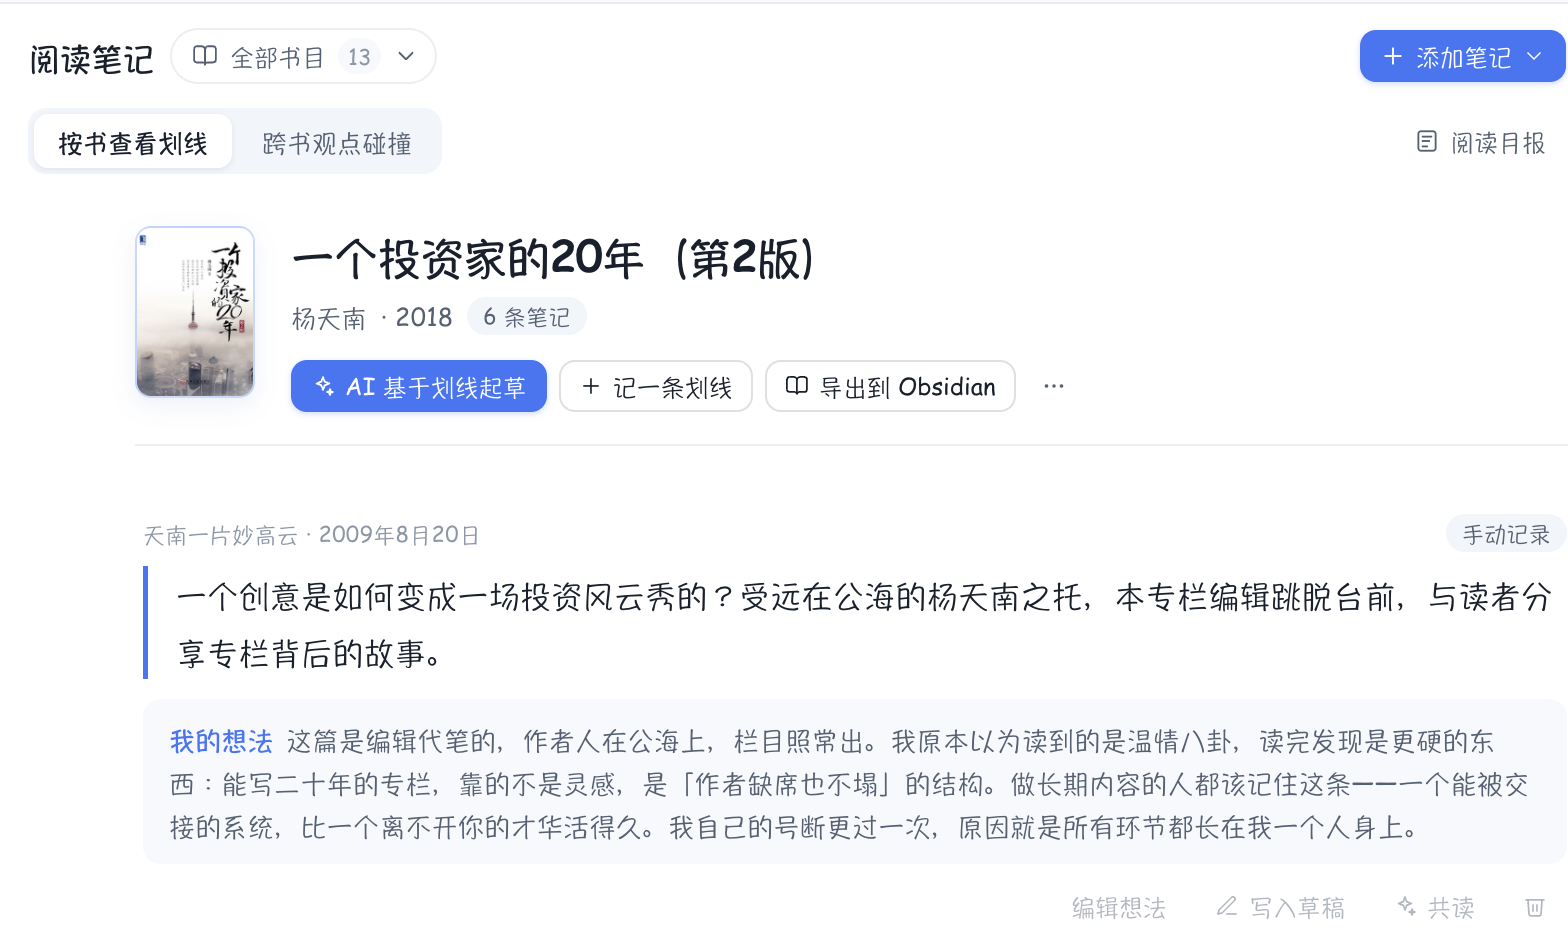
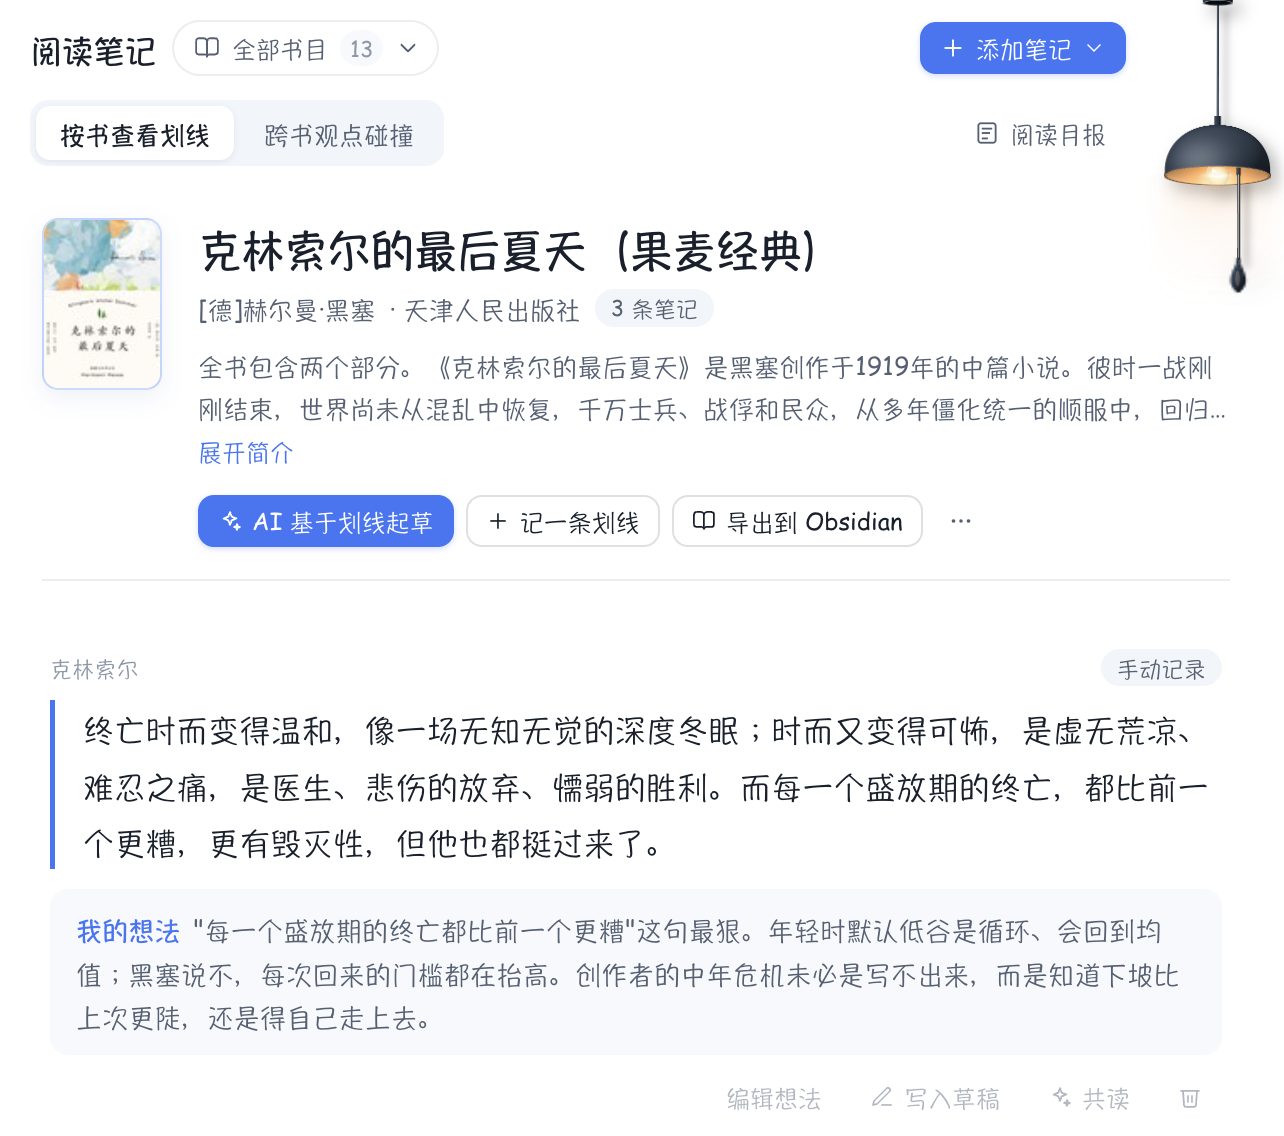
docs: show 克林索尔的最后夏天 in the Obsidian feature screenshot
Feature 6 now shows the reading-notes page for 《克林索尔的最后夏天（果麦经典）》 (book header with 导出到 Obsidian, a highlight and its thought), taken from the live window with the right-hand browser open; its display width drops from 720 to 640 to match the crop.

diff --git a/README.en.md b/README.en.md
@@ -69,7 +69,7 @@ flowchart LR
 - After choosing an Obsidian vault, export a book's notes or a draft as Markdown in one click. Renames and moves inside Obsidian are tracked; if you edited the same note by hand in Obsidian, a `.diandian-conflict.md` copy is written instead of overwriting your changes.
 - The desktop golden retriever brings back one old highlight a day, and `⌘⇧D` captures whatever sentence is on your clipboard.
 
-<p align="center"><img src="docs/screenshots/feature-6-notes.png" width="720" alt="Reading notes with highlights and thoughts, exported to Obsidian in one click" /></p>
+<p align="center"><img src="docs/screenshots/feature-6-notes.png" width="640" alt="Reading notes with highlights and thoughts, exported to Obsidian in one click" /></p>
 
 ### 7. Built on DeepSeek Harness, compatible with Harness plugins
 - The AI companion runs on [DeepSeek Harness](https://github.com/deepseek-ai/deepseek-harness), with DeepSeek or any OpenAI-compatible model.

diff --git a/README.md b/README.md
@@ -69,7 +69,7 @@ flowchart LR
 - 选好 Obsidian 笔记库后，一本书的笔记或一篇草稿可一键导出为 Markdown。在 Obsidian 里改名、移动目录都能跟踪到；如果你在 Obsidian 里手动改过同一篇，会另存一份 `.diandian-conflict.md`，不会覆盖你的修改。
 - 桌面上的小金毛每天推一条旧划线给你，`⌘⇧D` 可随手摘录剪贴板里的句子。
 
-<p align="center"><img src="docs/screenshots/feature-6-notes.png" width="720" alt="阅读笔记：划线和想法，一键导出到 Obsidian" /></p>
+<p align="center"><img src="docs/screenshots/feature-6-notes.png" width="640" alt="阅读笔记：划线和想法，一键导出到 Obsidian" /></p>
 
 ### 7. 基于 DeepSeek Harness，兼容 Harness 插件生态
 - AI 助手运行在 [DeepSeek Harness](https://github.com/deepseek-ai/deepseek-harness) 上，模型可接 DeepSeek 或任意 OpenAI 兼容接口。
